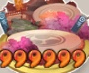
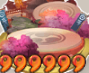
feat(KekkaiActivation): #204

diff --git a/tasks/KekkaiActivation/assets.py b/tasks/KekkaiActivation/assets.py
@@ -78,7 +78,7 @@ class KekkaiActivationAssets:
 
 	# Image Rule Assets
 	# description 
-	I_CARDS_KAIKO_6 = RuleImage(roi_front=(193,192,89,73), roi_back=(169,148,130,501), threshold=0.8, method="Template matching", file="./tasks/KekkaiActivation/cards/cards_cards_kaiko_6.png")
+	I_CARDS_KAIKO_6 = RuleImage(roi_front=(193,204,89,73), roi_back=(169,148,130,501), threshold=0.8, method="Template matching", file="./tasks/KekkaiActivation/cards/cards_cards_kaiko_6.png")
 	# description 
 	I_CARDS_KAIKO_5 = RuleImage(roi_front=(191,345,88,58), roi_back=(172,162,126,488), threshold=0.8, method="Template matching", file="./tasks/KekkaiActivation/cards/cards_cards_kaiko_5.png")
 	# description 
